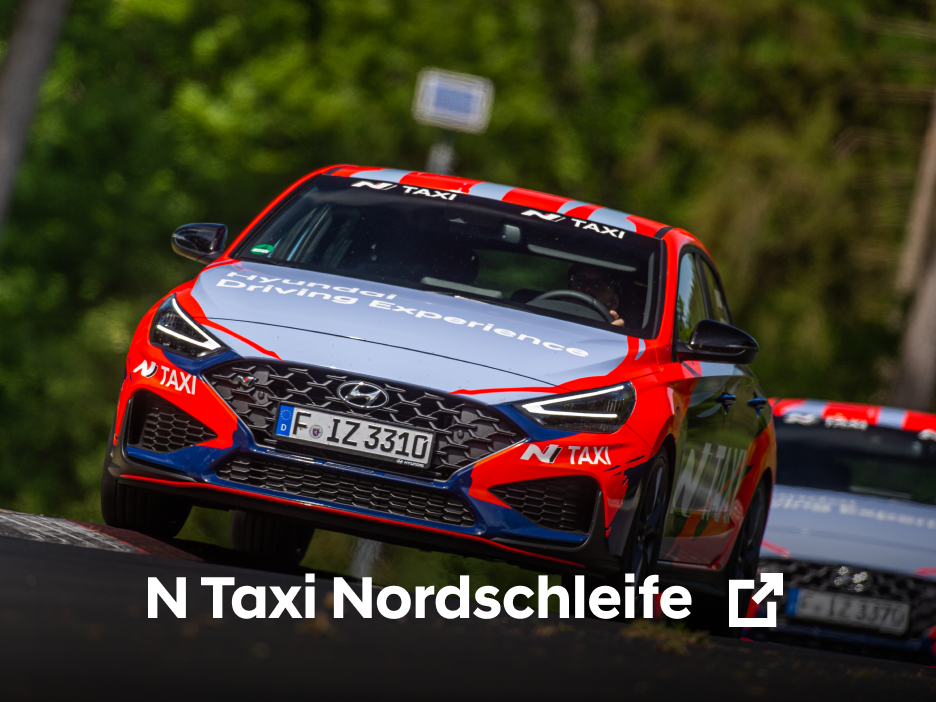
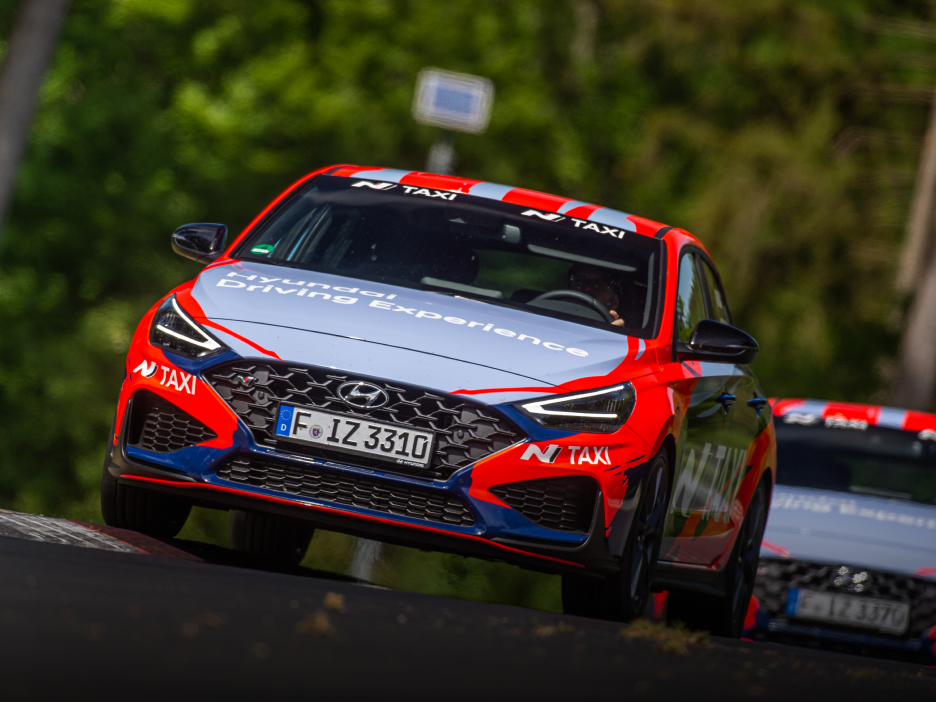
수정사항 재적용

Changed region(s): [[0.1549, 0.8077, 0.7436, 0.8974], [0.7746, 0.8077, 0.8365, 0.8974]]

diff --git a/html/experience/EP070101.html b/html/experience/EP070101.html
@@ -217,7 +217,7 @@
         </div>
 
         <div class="content-item05">
-          <div class="conts-section-wrap">            
+          <div class="conts-section-wrap">
             <div class="max1440">
               <div class="text-col">
                 <p class="text-strong">Starting a revolution – <br class="pc-only">with the IONIQ 5 N Taxi</p>
@@ -237,9 +237,7 @@
         <div class="content-item06 gallery-wrap ty02">
           <div class="max1440">
             <div class="text-col">
-              <p class="text-strong">Challenge expected –
-  N Taxi Nordschleife</p>
-              <p class="text-normal">It is the birthplace of legends. The cradle of exhilaration. With an epithet that sends shivers down the spine of racing enthusiasts all over the world. The “Green Hell” called Nürburgring Nordschleife. With the N Taxi comes your chance to experience one of the world's most demanding racetracks like never before. Feel the G-forces as our professional drivers push the i30 N Taxi or the all-electric IONIQ 5 N Taxi to the limits of driving physics, navigating the 20.8 km (about 12.92 mi) of twists, turns, and elevation changes at racing speed. </p>
+              <p class="text-strong">Experience the N Taxi in fast-forward</p>
             </div>
           </div>
           <div class="swiper-container">
@@ -249,127 +247,85 @@
                 <div class="swiper-slide">
                   <div class="img-area">
                     <img
-                      src="../../inc/images/content/img_nTaxi_cont02_1-pc.png"
+                      src="../../inc/images/content/img_nTaxi_cont04_1-pc.png"
                       loading="lazy"
                       alt="이미지 슬라이드1" class="pc-only"
                     />
                     <img
-                      src="../../inc/images/content/img_nTaxi_cont02_1-mo.png"
+                      src="../../inc/images/content/img_nTaxi_cont04_1-mo.png"
                       loading="lazy"
                       alt="이미지 슬라이드1" class="mo-only"
                     />
-                    <!-- <a href="#" class="btn lg-txt-btn02" download>
+                    <a href="#" class="btn lg-txt-btn02" download>
                       <span class="pc-only">Download</span>
                       <span
                         class="btn-icon24 icon-download-wh"
                         aria-hidden="true"
                       ></span>
-                    </a> -->
+                    </a>
                   </div>
                 </div>
                 <div class="swiper-slide">
                   <div class="img-area">
                     <img
-                      src="../../inc/images/content/img_nTaxi_cont02_2-pc.png"
+                      src="../../inc/images/content/img_nTaxi_cont04_2-pc.png"
                       loading="lazy"
                       alt="이미지 슬라이드2" class="pc-only"
                     />
                     <img
-                      src="../../inc/images/content/img_nTaxi_cont02_2-mo.png"
+                      src="../../inc/images/content/img_nTaxi_cont04_2-mo.png"
                       loading="lazy"
                       alt="이미지 슬라이드2" class="mo-only"
                     />
-                    <!-- <a href="#" class="btn lg-txt-btn02" download>
+                    <a href="#" class="btn lg-txt-btn02" download>
                       <span class="pc-only">Download</span>
                       <span
                         class="btn-icon24 icon-download-wh"
                         aria-hidden="true"
                       ></span>
-                    </a> -->
+                    </a>
                   </div>
                 </div>
                 <div class="swiper-slide">
                   <div class="img-area">
                     <img
-                      src="../../inc/images/content/img_nTaxi_cont02_3-pc.png"
+                      src="../../inc/images/content/img_nTaxi_cont04_3-pc.png"
                       loading="lazy"
                       alt="이미지 슬라이드3" class="pc-only"
                     />
                     <img
-                      src="../../inc/images/content/img_nTaxi_cont02_3-mo.png"
+                      src="../../inc/images/content/img_nTaxi_cont04_3-mo.png"
                       loading="lazy"
                       alt="이미지 슬라이드3" class="mo-only"
                     />
-                    <!-- <a href="#" class="btn lg-txt-btn02" download>
+                    <a href="#" class="btn lg-txt-btn02" download>
                       <span class="pc-only">Download</span>
                       <span
                         class="btn-icon24 icon-download-wh"
                         aria-hidden="true"
                       ></span>
-                    </a> -->
+                    </a>
                   </div>
                 </div>
                 <div class="swiper-slide">
                   <div class="img-area">
                     <img
-                      src="../../inc/images/content/img_nTaxi_cont02_4-pc.png"
+                      src="../../inc/images/content/img_nTaxi_cont04_4-pc.png"
                       loading="lazy"
                       alt="이미지 슬라이드4" class="pc-only"
                     />
                     <img
-                      src="../../inc/images/content/img_nTaxi_cont02_4-mo.png"
+                      src="../../inc/images/content/img_nTaxi_cont04_4-mo.png"
                       loading="lazy"
                       alt="이미지 슬라이드4" class="mo-only"
                     />
-                    <!-- <a href="#" class="btn lg-txt-btn02" download>
+                    <a href="#" class="btn lg-txt-btn02" download>
                       <span class="pc-only">Download</span>
                       <span
                         class="btn-icon24 icon-download-wh"
                         aria-hidden="true"
                       ></span>
-                    </a> -->
-                  </div>
-                </div>
-                <div class="swiper-slide">
-                  <div class="img-area">
-                    <img
-                      src="../../inc/images/content/img_nTaxi_cont02_5-pc.png"
-                      loading="lazy"
-                      alt="이미지 슬라이드5" class="pc-only"
-                    />
-                    <img
-                      src="../../inc/images/content/img_nTaxi_cont02_5-mo.png"
-                      loading="lazy"
-                      alt="이미지 슬라이드5" class="mo-only"
-                    />
-                    <!-- <a href="#" class="btn lg-txt-btn02" download>
-                      <span class="pc-only">Download</span>
-                      <span
-                        class="btn-icon24 icon-download-wh"
-                        aria-hidden="true"
-                      ></span>
-                    </a> -->
-                  </div>
-                </div>
-                <div class="swiper-slide">
-                  <div class="img-area">
-                    <img
-                      src="../../inc/images/content/img_nTaxi_cont02_6-pc.png"
-                      loading="lazy"
-                      alt="이미지 슬라이드6" class="pc-only"
-                    />
-                    <img
-                      src="../../inc/images/content/img_nTaxi_cont02_6-mo.png"
-                      loading="lazy"
-                      alt="이미지 슬라이드6" class="mo-only"
-                    />
-                    <!-- <a href="#" class="btn lg-txt-btn02" download>
-                      <span class="pc-only">Download</span>
-                      <span
-                        class="btn-icon24 icon-download-wh"
-                        aria-hidden="true"
-                      ></span>
-                    </a> -->
+                    </a>
                   </div>
                 </div>
               </div>
@@ -395,6 +351,58 @@
             <!-- //swiper -->
           </div>
           <!-- //swiper-container -->
+        </div>
+
+        <div class="content-item07 next-taxi-wrap">
+          <div class="conts-section-wrap">
+            <div class="max1440">
+              <div class="text-col">
+                <p class="text-strong">Discover Your Next N Taxi Ride</p>
+              </div>
+              <ul class="grid_2 grid_mo_drop">
+                <li>
+                  <div class="img-wrap">
+                    <img
+                      src="../../inc/images/content/img_nTaxi_cont05_1-pc.png"
+                      loading="lazy"
+                      alt="PC 컨텐츠 이미지1" class="pc-only"
+                    />
+                    <img
+                      src="../../inc/images/content/img_nTaxi_cont05_1-mo.png"
+                      loading="lazy"
+                      alt="Mobile 컨텐츠 이미지1" class="mo-only"
+                    />
+                  </div>
+                  <div class="btn-wrap">
+                    <a href="#" class="btn lg-txt-btn01" title="페이지 이동">
+                      N Taxi Nordschleife
+                      <span class="btn-icon24 icon-link-wh" aria-hidden="true"></span>
+                    </a>
+                  </div>
+                </li>
+                <li>
+                  <div class="img-wrap">
+                    <img
+                      src="../../inc/images/content/img_nTaxi_cont05_2-pc.png"
+                      loading="lazy"
+                      alt="PC 컨텐츠 이미지2" class="pc-only"
+                    />
+                    <img
+                      src="../../inc/images/content/img_nTaxi_cont05_2-mo.png"
+                      loading="lazy"
+                      alt="Mobile 컨텐츠 이미지2" class="mo-only"
+                    />
+                  </div>
+                  <div class="btn-wrap">
+                    <a href="#" class="btn lg-txt-btn01" title="페이지 이동">
+                      N Taxi Korea
+                      <span class="btn-icon24 icon-link-wh" aria-hidden="true"></span>
+                    </a>
+                  </div>
+                </li>
+              </ul>
+            </div>
+          </div>
         </div>
       </div> <!-- //content-area -->
     </section>

diff --git a/inc/css/component.css b/inc/css/component.css
@@ -2048,27 +2048,32 @@ input[type="radio"]:focus + label {
   min-height: 1080px;
 }
 
+.ty01Swiper .text-area, 
 .key-visual-wrap .text-area {
   position: absolute;
   bottom: 136px;
   left: 60px;
   color: #fff;
 }
+.ty01Swiper .text-area .title, 
 .key-visual-wrap .text-area .title {
   font-size: 68px;
   line-height: 85px;
   font-weight: 700;
 }
+.ty01Swiper .text-area .desc, 
 .key-visual-wrap .text-area .desc {
   font-size: 20px;
   line-height: 28px;
   font-weight: 700;
   margin-top: 12px;
 }
+.ty01Swiper .text-area .btn-wrap, 
 .key-visual-wrap .text-area .btn-wrap {
   margin-top: 32px;
 }
 
+.ty01Swiper .text-area .btn-wrap .btn:not(:last-child), 
 .key-visual-wrap .text-area .btn-wrap .btn:not(:last-child) {
   margin-right: 12px;
 }

diff --git a/inc/css/component_mo.css b/inc/css/component_mo.css
@@ -1451,22 +1451,27 @@ min-width : 1024 css
     display: none;
   }
 
+  .ty01Swiper .text-area, 
   .key-visual-wrap .text-area {
     bottom: 80px;
     left: 24px;
   }
 
+  .ty01Swiper .text-area .title, 
   .key-visual-wrap .text-area .title {
     font-size: 30px;
     line-height: 42px;
   }
+  .ty01Swiper .text-area .desc, 
   .key-visual-wrap .text-area .desc {
     margin-top: 9px;
   }
+  .ty01Swiper .text-area .btn-wrap, 
   .key-visual-wrap .text-area .btn-wrap {
     margin-top: 24px;
   }
 
+  .ty01Swiper .text-area .btn-wrap .btn:not(:last-child), 
   .key-visual-wrap .text-area .btn-wrap .btn:not(:last-child) {
     margin-right: 8px;
   }
